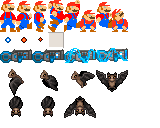
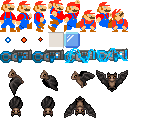
Add breakable tiles

Changed region(s): [[0.375, 0.25, 0.5, 0.375]]

diff --git a/src/tilemap.cpp b/src/tilemap.cpp
@@ -10,13 +10,14 @@ void TileMap::Randomize(int seed)
 	int total = sizes.x * sizes.y;
 	for (int i = 0; i < total; i++) {
 		tiles[i] = (rand() % 32) > 29 ? Tile::SOLID : Tile::NONE;
-		if (i > sizes.y && (int)tiles[i] && ((rand() % 32) > 20)) tiles[i - sizes.y] = Tile::SOLID;
+		if ((int)tiles[i] && (rand() % 30) < 10) tiles[i] = Tile::BREAKABLE;
+		if (i > sizes.y && (int)tiles[i] && ((rand() % 32) > 20)) tiles[i - sizes.y] = tiles[i];
 	}
 }
 
 void TileMap::Draw(sf::RenderTarget& window)
 {
-	sf::Sprite& sprite = Assets::hospitalSprite;
+	sf::Sprite& sprite = Assets::marioSprite;
 
 	Bounds screen = Camera::GetCameraBounds();
 	int left = (screen.Left() / unitsPerTile) - 1;
@@ -24,7 +25,7 @@ void TileMap::Draw(sf::RenderTarget& window)
 	int top = (screen.Top() / unitsPerTile) - 1;
 	int bottom = (screen.Bottom() / unitsPerTile) + 1;
 
-	sprite.setTextureRect(sf::Rect(4 * 16, 3 * 16, 16, 16));
+	sprite.setTextureRect(sf::Rect(3 * 16, 2 * 16, 16, 16));
 
 	if (left < 0) {
 		for (int x = left - 1; x < 0; x++)
@@ -78,7 +79,14 @@ void TileMap::Draw(sf::RenderTarget& window)
 	{
 		for (int y = top; y < bottom; y++)
 		{
-			if (!isSolid(x, y)) {
+			switch (getTile(x,y)) {
+			case Tile::SOLID:
+				sprite.setTextureRect(sf::Rect(3 * 16, 2 * 16, 16, 16));
+				break;
+			case Tile::BREAKABLE:
+				sprite.setTextureRect(sf::Rect(4 * 16, 2 * 16, 16, 16));
+				break;
+			case Tile::NONE:
 				continue;
 			}
 			sprite.setPosition(x * unitsPerTile, y * unitsPerTile);
